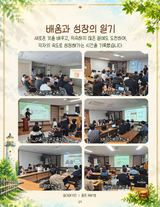
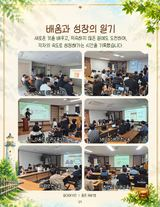
제87호 수정 반영: 4쪽 지리산국립공원 캡션, 10쪽 캡션 띄어쓰기, 12쪽 사진 2장·소개 문구 교체
- 캔바에서 수정된 4·10·12쪽만 다시 내려받아 사진·페이지 이미지·썸네일 교체
- 이미지 캐시를 피하도록 호수 데이터에 ver 추가

diff --git a/issues/87/sizes.js b/issues/87/sizes.js
@@ -1,1 +1,1 @@
-window.PHOTO_SIZES = {"p04_a": [1744, 1226], "p04_b": [967, 1386], "p04_c": [1364, 862], "p04_d": [1344, 862], "p05_a": [1305, 790], "p05_b": [1305, 790], "p05_c": [1305, 790], "p05_d": [1305, 790], "p05_e": [1305, 793], "p05_f": [1305, 793], "p06_a": [1306, 921], "p06_b": [1306, 921], "p06_c": [1306, 922], "p06_d": [1306, 922], "p06_e": [1306, 922], "p06_f": [1306, 922], "p07_a": [1306, 921], "p07_b": [1306, 921], "p07_c": [1306, 922], "p07_d": [1306, 922], "p07_e": [1306, 922], "p07_f": [1306, 922], "p08_a": [1305, 678], "p08_b": [1306, 678], "p08_c": [1305, 678], "p08_d": [1306, 678], "p08_e": [1305, 790], "p08_f": [1306, 790], "p09_00": [631, 397], "p09_01": [631, 397], "p09_02": [630, 397], "p09_10": [631, 396], "p09_11": [631, 396], "p09_12": [630, 396], "p09_20": [631, 397], "p09_21": [631, 397], "p09_22": [630, 397], "p09_30": [630, 397], "p09_31": [631, 397], "p09_32": [631, 397], "p10_a": [1305, 788], "p10_b": [1305, 788], "p10_c": [1305, 780], "p10_d": [1305, 776], "p10_e": [1305, 768], "p10_f": [1305, 780], "p11_a": [1306, 921], "p11_b": [1305, 921], "p11_c": [840, 921], "p11_d": [843, 922], "p11_e": [843, 922], "p11_f": [1306, 922], "p11_g": [1305, 922], "p12_a": [1306, 783], "p12_b": [1305, 783], "p12_c": [1306, 784], "p12_d": [1305, 777], "p12_e": [1306, 776], "p12_f": [1305, 788], "p13_a": [746, 900], "p13_b": [760, 960], "p15_a": [1306, 922], "p15_b": [1306, 922], "p15_c": [1306, 922]};
+window.PHOTO_SIZES = {"p04_a": [1744, 1226], "p04_b": [967, 1224], "p04_c": [1364, 862], "p04_d": [1344, 862], "p05_a": [1305, 790], "p05_b": [1305, 790], "p05_c": [1305, 790], "p05_d": [1305, 790], "p05_e": [1305, 793], "p05_f": [1305, 793], "p06_a": [1306, 921], "p06_b": [1306, 921], "p06_c": [1306, 922], "p06_d": [1306, 922], "p06_e": [1306, 922], "p06_f": [1306, 922], "p07_a": [1306, 921], "p07_b": [1306, 921], "p07_c": [1306, 922], "p07_d": [1306, 922], "p07_e": [1306, 922], "p07_f": [1306, 922], "p08_a": [1305, 678], "p08_b": [1306, 678], "p08_c": [1305, 678], "p08_d": [1306, 678], "p08_e": [1305, 790], "p08_f": [1306, 790], "p09_00": [631, 397], "p09_01": [631, 397], "p09_02": [630, 397], "p09_10": [631, 396], "p09_11": [631, 396], "p09_12": [630, 396], "p09_20": [631, 397], "p09_21": [631, 397], "p09_22": [630, 397], "p09_30": [630, 397], "p09_31": [631, 397], "p09_32": [631, 397], "p10_a": [1305, 788], "p10_b": [1305, 788], "p10_c": [1305, 780], "p10_d": [1305, 776], "p10_e": [1305, 768], "p10_f": [1305, 780], "p11_a": [1306, 921], "p11_b": [1305, 921], "p11_c": [840, 921], "p11_d": [843, 922], "p11_e": [843, 922], "p11_f": [1306, 922], "p11_g": [1305, 922], "p12_a": [1306, 783], "p12_b": [1305, 783], "p12_c": [1306, 773], "p12_d": [1305, 777], "p12_e": [1306, 776], "p12_f": [1305, 788], "p13_a": [746, 900], "p13_b": [760, 960], "p15_a": [1306, 922], "p15_b": [1306, 922], "p15_c": [1306, 922]};

diff --git a/issues/87/issue.js b/issues/87/issue.js
@@ -2,6 +2,7 @@
 // 새 호수는 이 파일 형식을 복사해 issues/88/issue.js 로 만들고, index.html 에 script 한 줄만 추가한다.
 (window.ISSUES = window.ISSUES || []).push({
   id: 87,
+  ver: 2,
   dir: "issues/87/",
   title: "등대매거진",
   subtitle: "2026년도 3분기 등대 소식",
@@ -26,7 +27,7 @@
       intro: "익숙한 하루 속에서 서로를 배려하고,\n나의 생활을 스스로 만들어가는 시간을 보냈습니다.",
       photos: [
         { f: "p04_a", cap: "지리산국립공원" },
-        { f: "p04_b", cap: "" },
+        { f: "p04_b", cap: "지리산국립공원" },
         { f: "p04_c", cap: "남원피오리움" },
         { f: "p04_d", cap: "화개장터" }
       ]
@@ -79,9 +80,9 @@
       id: "growth", title: "배움과 성장의 일기", no: "07", pages: [10],
       intro: "새로운 것을 배우고, 익숙하지 않은 일에도 도전하며,\n각자의 속도로 성장해가는 시간을 기록했습니다.",
       photos: [
-        { f: "p10_a", cap: "이용인인권교육1차" }, { f: "p10_b", cap: "종사자인권교육1차" },
-        { f: "p10_c", cap: "이용인인권교육2차" }, { f: "p10_d", cap: "3분기소방안전교육" },
-        { f: "p10_e", cap: "차량안전교육" }, { f: "p10_f", cap: "하반기인권교육" }
+        { f: "p10_a", cap: "이용인 인권교육1차" }, { f: "p10_b", cap: "종사자 인권교육1차" },
+        { f: "p10_c", cap: "이용인 인권교육2차" }, { f: "p10_d", cap: "3분기 소방안전교육" },
+        { f: "p10_e", cap: "차량안전교육" }, { f: "p10_f", cap: "하반기 인권교육" }
       ]
     },
     {
@@ -91,11 +92,11 @@
     },
     {
       id: "chuseok", title: "추석이야기", no: "09", pages: [12],
-      intro: "둘러앉아 전을 부치며 이야기꽃을 피우고,\n이곳저곳 나들이를 다니며 한 식구의 따뜻함을 나누었습니다.",
+      intro: "오랜만에 가족들을 만나 이야기꽃을 피우고,\n이곳저곳 나들이를 다니며 따뜻함을 나누었습니다.",
       photos: [
-        { f: "p12_a", cap: "전부치기" }, { f: "p12_b", cap: "테라리움" },
+        { f: "p12_a", cap: "가족 만남" }, { f: "p12_b", cap: "테라리움" },
         { f: "p12_c", cap: "신정호" }, { f: "p12_d", cap: "제천한방자연치유센터" },
-        { f: "p12_e", cap: "외암리민속마을" }, { f: "p12_f", cap: "천흥저수지" }
+        { f: "p12_e", cap: "후견인 만남" }, { f: "p12_f", cap: "천흥저수지" }
       ]
     },
     {

diff --git a/js/app.js b/js/app.js
@@ -115,7 +115,8 @@
   }
 
   /* ================= 읽기 모드 ================= */
-  function photoSrc(p) { return cur.dir + 'photos/' + p.f + '.jpg'; }
+  const vq = () => (cur.ver ? '?v=' + cur.ver : '');   // 이미지를 바꾼 호는 ver을 올려 캐시를 피한다
+  function photoSrc(p) { return cur.dir + 'photos/' + p.f + '.jpg' + vq(); }
   function fig(p, sec) {
     const sz = SIZES[p.f] || [3, 2];
     const label = [sec.title, p.cap].filter(Boolean).join(' · ');
@@ -203,7 +204,7 @@
     for (let i = 2; i <= cur.pageCount; i += 2) out.push(i + 1 <= cur.pageCount ? [i, i + 1] : [i]);
     return out;
   }
-  const pageSrc = n => `${cur.dir}pages/p${pad(n)}.jpg`;
+  const pageSrc = n => `${cur.dir}pages/p${pad(n)}.jpg${vq()}`;
   const lab = n => (cur.pageLabels && cur.pageLabels[n - 1]) || '';
   const isLand = () => cur.pageW > cur.pageH;      // 가로형(슬라이드) 호는 한 쪽씩만 보여줌
   const isSpread = () => book.spread && window.innerWidth >= 900 && !book.zoom && !isLand();
@@ -215,7 +216,7 @@
       const pos = n > 1 ? (i / (n - 1) * 100).toFixed(3) : 0;
       return `<span class="th" style="width:${w}px;aspect-ratio:${cur.thumbW} / ${cur.thumbH};background:url('${cur.dir}${cur.thumbSprite}') ${pos}% 0 / ${n * 100}% 100%"></span>`;
     }
-    return `<img src="${cur.dir}thumbs/p${pad(i + 1)}.jpg" alt="" loading="lazy" width="160" height="207">`;
+    return `<img src="${cur.dir}thumbs/p${pad(i + 1)}.jpg${vq()}" alt="" loading="lazy" width="160" height="207">`;
   }
 
   function renderBook() {
